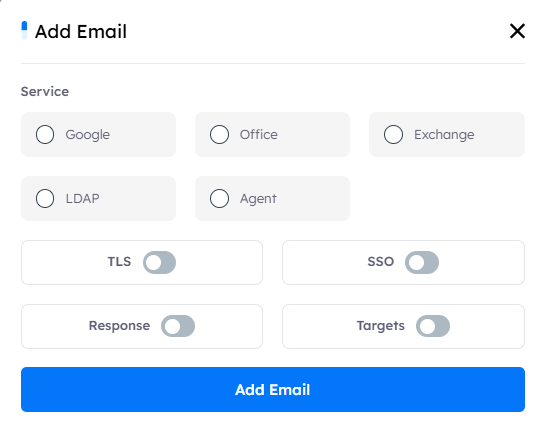
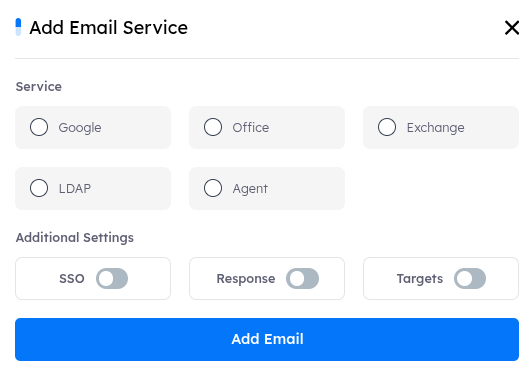
fix markup

diff --git a/modules/utilities/target.md b/modules/utilities/target.md
@@ -160,8 +160,7 @@ Upon accessing the `Target tab`, users encounter key indicators at the top of th
             - User.Read.All
             - User.Export.All
 
-    ![utilities-Phish target permissions!](../../assets/utilities/target/target_permissions.png "utilities-Phish target permissions")
-
+            ![utilities-Phish target permissions!](../../assets/utilities/target/target_permissions.png "utilities-Phish target permissions")
 
     7. Grant admin consent:
         - Go to "API permissions," click on "Grant admin consent for [your tenant]," and confirm the consent.
@@ -173,28 +172,29 @@ Upon accessing the `Target tab`, users encounter key indicators at the top of th
 
     - These steps should guide you through creating an Azure AD application with permission to read all users' information. For more detailed guidance and visual aids, refer to Azure's documentation.
 
-    After the preparation of Azure AD follow the below steps:
+    ## After the preparation of Azure AD follow the below steps:
+
     1. Navigate to `Platform` > `Email Services` in your admin panel.
 
-    ![utilities-Phish target email services!](../../assets/utilities/target/email_services.png "utilities-Phish target email services")
+        ![utilities-Phish target email services!](../../assets/utilities/target/email_services.png "utilities-Phish target email services")
 
     2. Add `New Email` to begin the integration setup.
 
-    ![utilities-Phish target new email button!](../../assets/utilities/target/new_email_button.png "utilities-Phish target new email button")
+        ![utilities-Phish target new email button!](../../assets/utilities/target/new_email_button.png "utilities-Phish target new email button")
 
     3. Choose `Office` and fill in the required office `connection` details (e.g., Tenant, Client, Secret, Resource, Other).
 
-    ![utilities-Phish target add email services office!](../../assets/utilities/target/add_email_services_office.png "utilities-Phish target add email services office")
+        ![utilities-Phish target add email services office!](../../assets/utilities/target/add_email_services_office.png "utilities-Phish target add email services office")
 
     4. Select and enable the service for integration, such as `Targets`.
 
-    ![utilities-Phish target button!](../../assets/utilities/target/targets_button.png "utilities-Phish target button")
+        ![utilities-Phish target button!](../../assets/utilities/target/targets_button.png "utilities-Phish target button")
 
     5. Save configurations.
 
     6. Get back to `Targets tab` Use Sync Button to import the targets from the active directory.
 
-    ![utilities-Phish target sync button!](../../assets/utilities/target/target_sync_button.png "utilities-Phish target sync button")
+        ![utilities-Phish target sync button!](../../assets/utilities/target/target_sync_button.png "utilities-Phish target sync button")
     
 - ### Create Drill Accounts
 
@@ -209,24 +209,25 @@ Upon accessing the `Target tab`, users encounter key indicators at the top of th
     - **Purpose**: Provide LMS access to a large number of targets.
     - **How to**: Click the `Create Drill Accounts` button. The system will automatically generate accounts for all targets in the system and send them an email with their access credentials.
 
-    ![utilities-Phish target Create Drill Accounts Button!](../../assets/utilities/target/drill_account_button.png "utilities-Phish target Create Drill Accounts Button")
+        ![utilities-Phish target Create Drill Accounts Button!](../../assets/utilities/target/drill_account_button.png "utilities-Phish target Create Drill Accounts Button")
 
+        ---
 
-    ![utilities-Phish target Create Drill Accounts Button!](../../assets/utilities/target/drill_account_button_model.png "utilities-Phish target Create Drill Accounts Button")
+        ![utilities-Phish target Create Drill Accounts Button!](../../assets/utilities/target/drill_account_button_model.png "utilities-Phish target Create Drill Accounts Button")
 
     - **Create drill account to a specific target**
     - **Purpose**: Provide LMS access to a single target.
     - **How to**: Click the `Actions` button next to the desired target, then select `Create Drill Account` to generate their account.
 
-    ![utilities-Phish target specific action button!](../../assets/utilities/target/target_specific_action_button.png "utilities-Phish target specific action button")
+        ![utilities-Phish target specific action button!](../../assets/utilities/target/target_specific_action_button.png "utilities-Phish target specific action button")
 
-    ![utilities-Phish target single create drill account!](../../assets/utilities/target/single_create_drill_account.png "utilities-Phish target single create drill account")
+        ![utilities-Phish target single create drill account!](../../assets/utilities/target/single_create_drill_account.png "utilities-Phish target single create drill account")
 
     - **Auto access for targets (on creation)**
     - **Purpose**: Automatic access to the LMS for new targets.
     - **How to**: Go to `Settings` > `LMS` and enable the `Access For Targets (On Creation)` button. Whenever a new target is added to the system, an account will be automatically created for them, and they will receive an email with their access credentials.
 
-    ![utilities-Phish target access button!](../../assets/utilities/target/access_target_button.png "utilities-Phish target access button")
+        ![utilities-Phish target access button!](../../assets/utilities/target/access_target_button.png "utilities-Phish target access button")
 
     > [!NOTE]
     > After creating a new user, they will receive an email with their access credentials and a link to the tenant. This feature will only execute if enabled in the settings (Settings > Platform > Notify user on creation).
@@ -235,7 +236,7 @@ Upon accessing the `Target tab`, users encounter key indicators at the top of th
     - **Purpose**: Manually create a new user and manage their access to the LMS.
     - **How to**: The administrator can click the `New User` button from the `Drill` > `Users section`, enter the user's information manually, and choose to enable or disable the account during creation.
 
-    ![utilities-Phish target new user button!](../../assets/utilities/target/new_user_button.png "utilities-Phish target new user button")
+        ![utilities-Phish target new user button!](../../assets/utilities/target/new_user_button.png "utilities-Phish target new user button")
 
     - Each user is defined by the following metadata fields:
         1. **First Name**
@@ -244,7 +245,7 @@ Upon accessing the `Target tab`, users encounter key indicators at the top of th
         4. **Email**: The email address associated with the user’s account.
         5. **Enabled**: This is an enable button that toggles the user’s account status between Active and Inactive.
 
-    ![utilities-Phish target new user configurations!](../../assets/utilities/target/new_user_configurations.png "utilities-Phish target new user configurations")
+        ![utilities-Phish target new user configurations!](../../assets/utilities/target/new_user_configurations.png "utilities-Phish target new user configurations")
 
     > [!NOTE]
     > After creating a new user, they will receive an email with their access credentials and a link to the tenant. This feature will only execute if enabled in the settings (Settings > Platform > Notify user on creation).

diff --git a/modules/platform/email_services.md b/modules/platform/email_services.md
@@ -17,23 +17,25 @@
 
 - The following inner services are part of the integration process for each email system (Google, Office, Exchange, LDAP, and Agent) and can be configured to meet the specific `needs` of the tenant for secure and efficient email communication and user management:
 
-    1. **TLS (Transport Layer Security)**: This service ensures the `encryption` of emails during transmission, providing a secure connection between the email servers and preventing unauthorized access to sensitive data.
+    1. **SSO (Single Sign-On)**: This service allows users to authenticate once across multiple systems without having to re-enter their credentials. For example, integrating Google or Office services with SSO would allow users to access various systems using their existing Google or Office credentials.
 
-    2. **SSO (Single Sign-On)**: This service allows users to authenticate once across multiple systems without having to re-enter their credentials. For example, integrating Google or Office services with SSO would allow users to access various systems using their existing Google or Office credentials.
+    2. **Response**: This service handles email interactions like bouncebacks, message delivery notifications, and tracking responses from emails sent through the system. It's useful for managing email campaigns and monitoring email status.
 
-    3. **Response**: This service handles email interactions like bouncebacks, message delivery notifications, and tracking responses from emails sent through the system. It's useful for managing email campaigns and monitoring email status.
-
-    4. **Target**: This service involves setting up email integrations with specific targets within the tenant, such as syncing user data with email systems (e.g., LDAP or Exchange) and ensuring smooth management of user access and authentication.
+    3. **Target**: This service involves setting up email integrations with specific targets within the tenant, such as syncing user data with email systems (e.g., LDAP or Exchange) and ensuring smooth management of user access and authentication.
 
 ---
 
 ### Email Services Features
 
-#### Search Functionality
-- Located at the top right corner, the search button allows you to find the email service by its `service`, or `server` used quickly.
+#### Actions Features
+
+- **Edit**: Modify the email's configurations.
+- **Delete**: Permanently remove the email.
 
 #### Search Functionality
-- Next to the `Search` button, the `Filter` button allows you to search based on the `service`, or `integration service`.
+
+- `Search` button Located at the top right corner, allows you to find the email service by its `service`, or `server` used quickly.
+- `Filter` button Next to the `Search` button, allows you to search based on the `service`, or `integration service`.
 
     ![Platform-Phish email services filter options!](../../assets/platform/emailServices/email_filter_options.png "Platform-Phish email services filter options")
 

diff --git a/modules/platform/email_templates.md b/modules/platform/email_templates.md
@@ -3,6 +3,11 @@
 
 - The `Email Templates` section contains all templates used within the tenant, including the credentials template for new user access, the OTP template, and the course assignment template, and much more. There are 18 templates available in both `English` and `Arabic`, serving various purposes across the tenant. 
 
+
+![Platform-Phish email templates main!](../../assets/platform/emailTemplates/main.png "Platform-Phish email templates main")
+
+---
+
 ### General Notes
 1. New email templates cannot be added.
 2. Only existing email templates can be edited, including:
@@ -13,9 +18,6 @@
 
 #### Search Functionality
 - Located at the top right corner, the search button allows you to find email template by its name quickly.
-
-#### Filtering Options
-- Next to the `Search` button, the `Filter` button allows you to search based on the email’s `language`, `name`, or `tags.
 
 #### Information Bar
 - A comprehensive information bar is situated above the templates, displaying the following essential details:

diff --git a/modules/detect/analyzed_emails.md b/modules/detect/analyzed_emails.md
@@ -11,6 +11,11 @@ The user interface consists of multiple elements, and each will be explained bel
 1. Give the overall number of reported emails in the platform, including emails for all sources.
 2. Searches any of the displayed columns for emails that match the search keywords.
 3. Filters the displayed emails based on severity, source, status, or user.
+
+   ![Detect-Phish analyzed emails filters!](../../assets/detect/analyzedEmails/filters_list.png "Detect-Phish analyzed emails filters")
+
+   ---
+
 4. Exports the listing data, all the analyzed emails, in CSV, XLS, or JSON format.
 5. Submits a new email, .eml file, for analysis. 
 6. **Subject**: The subject of the reported email.

diff --git a/modules/platform/files.md b/modules/platform/files.md
@@ -18,3 +18,13 @@ Upon accessing the `files tab`, users encounter key indicators at the top of the
 ---
 
 ![Platform-Phish files upload new file!](../../assets/platform/files/upload_popup.png "Platform-Phish files upload new file")
+
+---
+
+- ### Copy Link
+
+    - When users click on copy link icon, It allow users to can take link copy of file to can open in another tab.
+
+    ![Platform-Phish files copy link!](../../assets/platform/files/copy_link.png "Platform-Phish files copy link")
+
+---

diff --git a/modules/platform/tasks.md b/modules/platform/tasks.md
@@ -19,4 +19,4 @@ Upon accessing the `Tasks tab`, users encounter key indicators at the top of the
 
 - ### Search Functionality
 
-    - Located at the top right corner, the search button allows you to find the logs by its `path`, or `method` used quickly.
+    - Located at the top right corner, the search button allows you to find the tasks by its `Task Name` used quickly.
